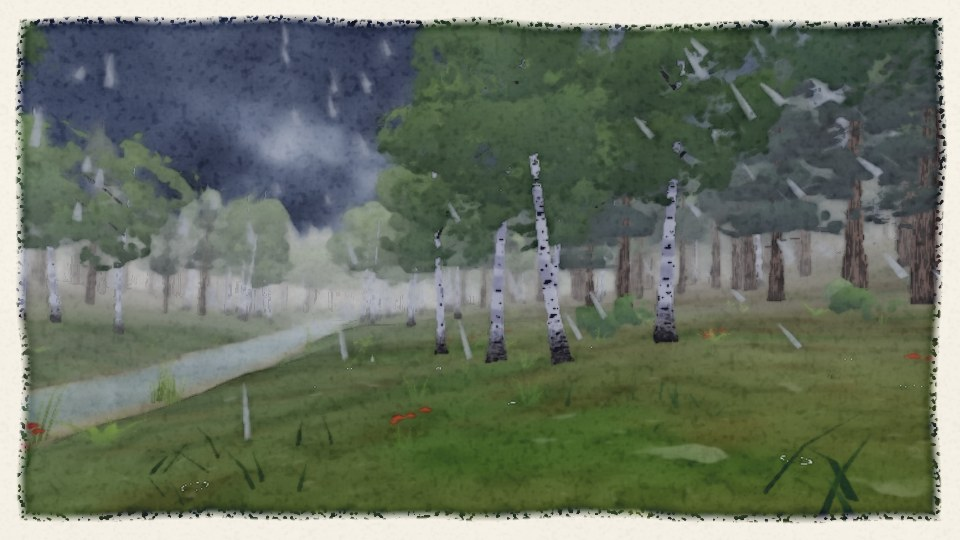
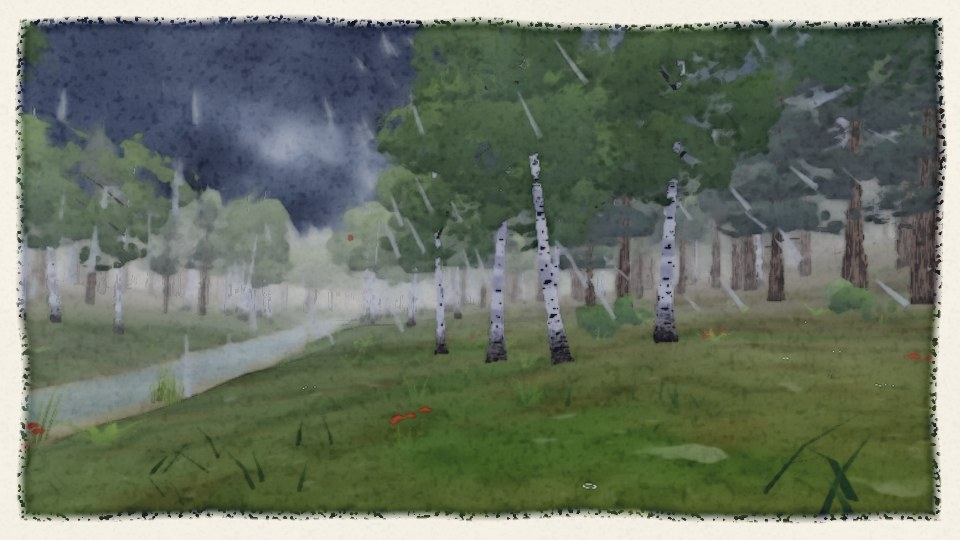
[painter] Rain strokes longer and thinner (5 cm, 120 ms, floor 4 px): in the game's view from above the short broad ones read as petals; storm frame re-rendered

diff --git a/src/world/index.js b/src/world/index.js
@@ -108,7 +108,7 @@ export function createWorld(scene) {
       // internal pixels survive the brush), rain a little broader and longer: a few strokes
       const D = K.DRAW_PAINTED, draw = {};
       for (const k in D) draw[k] = { ...D[k] };
-      draw.rain = { ...D.rain, width: 0.07, exposure: 0.08, minPx: 5 };
+      draw.rain = { ...D.rain, width: 0.05, exposure: 0.12, minPx: 4 };
       draw.snow = { ...D.snow, size: 0.07, minPx: 3.5, maxPx: 6.5, varySize: 0.5 };
       kits = K.createPhysicsKits(P, { makeMaterial: (kind, info) => makeKitMaterial(kind, info, { shapeGlsl: K.SHAPE_GLSL }), weather: { draw } });
     }).catch((e) => console.warn('weather kits not available: ' + e.message));
